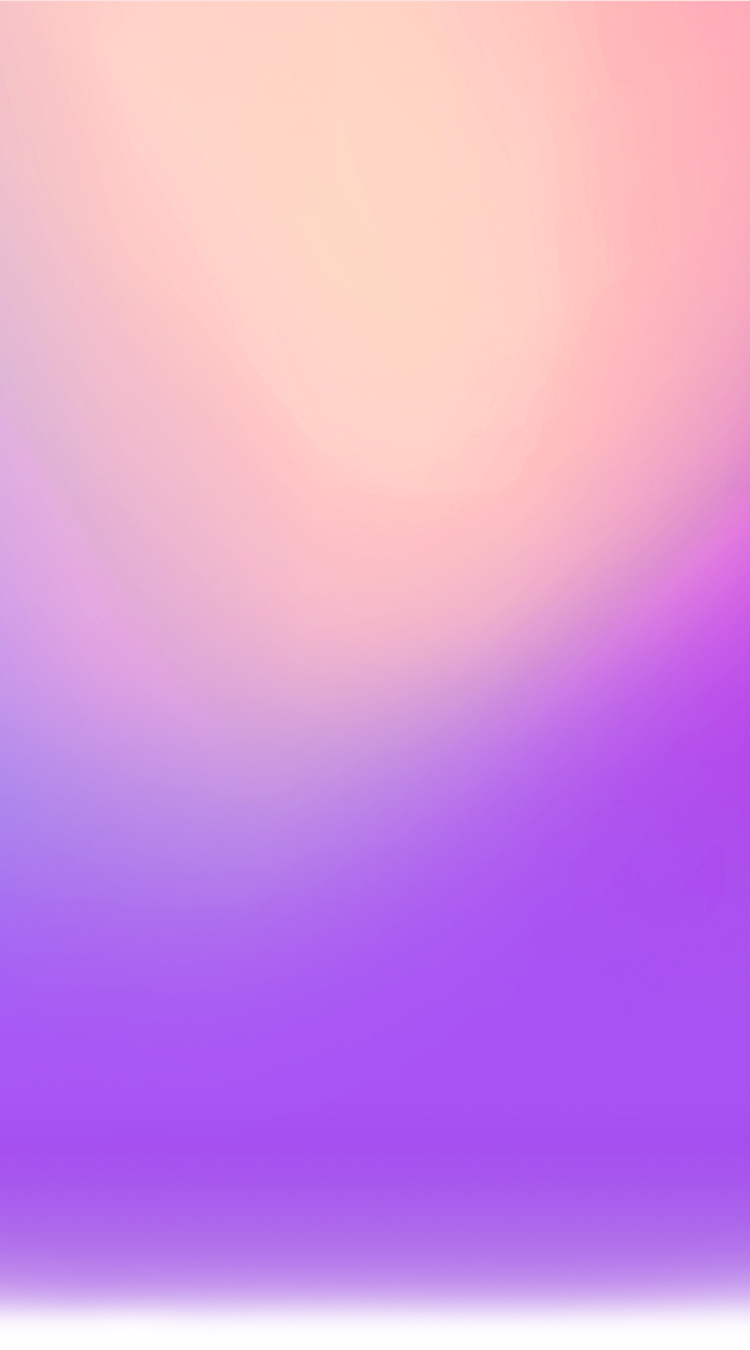
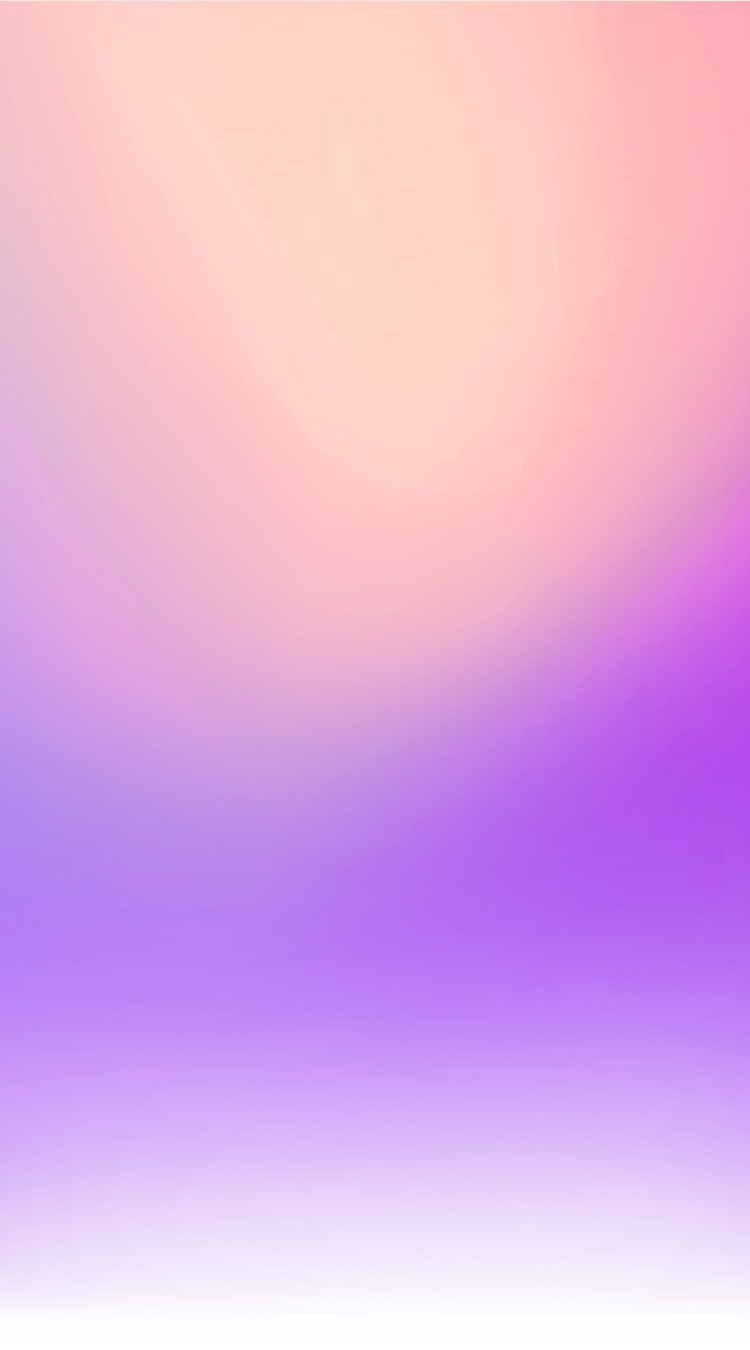
update bg

Changed region(s): [[0.0, 0.6844, 1.0, 0.9956]]

diff --git a/public/client/css/game-node.css b/public/client/css/game-node.css
@@ -18,11 +18,10 @@ body{
     position: relative;
     background-image: url("/client/images/wheel/background_game.png");
     background-repeat: no-repeat;
-    /*background-size: 100% auto;*/
+    background-size: 100% auto;
     background-position: center top;
     background-attachment: scroll;
     background-color: #8c36d9;
-    background-size: cover;
 }
 
 .information-table {
